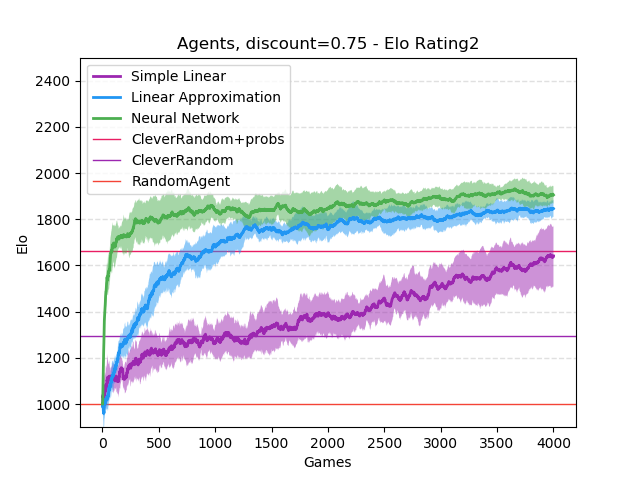
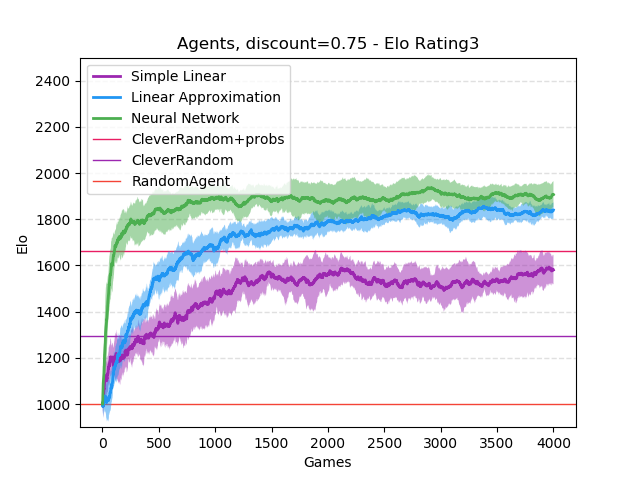
New_lr_foraganets

Changed region(s): [[0.1562, 0.3438, 0.875, 0.875]]

diff --git a/plotgenerators/agentsplot.py b/plotgenerators/agentsplot.py
@@ -3,9 +3,9 @@ import numpy as np
 
 for discount in [0.5, 0.75, 0.95]:
 
-    l = [(f'SL-discount-{discount}-NoTrain-alpha-0.000001', 'Simple Linear', '#9C27B0'), (f'LA-discount-{discount}-NoTrain-alpha-0.000001', 'Linear Approximation', '#2196F3'), (f'NN-discount-{discount}-NoTrain-lr-0.0002', 'Neural Network', '#4CAF50')]
+    l = [(f'SL-discount-{discount}-NoTrain-alpha-0.000003', 'Simple Linear', '#9C27B0'), (f'LA-discount-{discount}-NoTrain-alpha-0.000001', 'Linear Approximation', '#2196F3'), (f'NN-discount-{discount}-NoTrain-lr-0.00005', 'Neural Network', '#4CAF50')]
 
-    with EloPlot(title=f'Agents, discount={discount} - Elo Rating2', saves=[f'GoodPlots/Agents-{discount}.png']) as plt:
+    with EloPlot(title=f'Agents, discount={discount} - Elo Rating3', saves=[f'GoodPlots/Agents-{discount}.png']) as plt:
         for EloOverTime, name, agent, color in Data([f".\\outputs\\{a[0]}\\csv" for a in l], colors=[a[2] for a in l], elo=False):
             name = [a[1] for a in l if a[0] == name][0]
             plt.varPlot(plt, EloOverTime, name, color)
